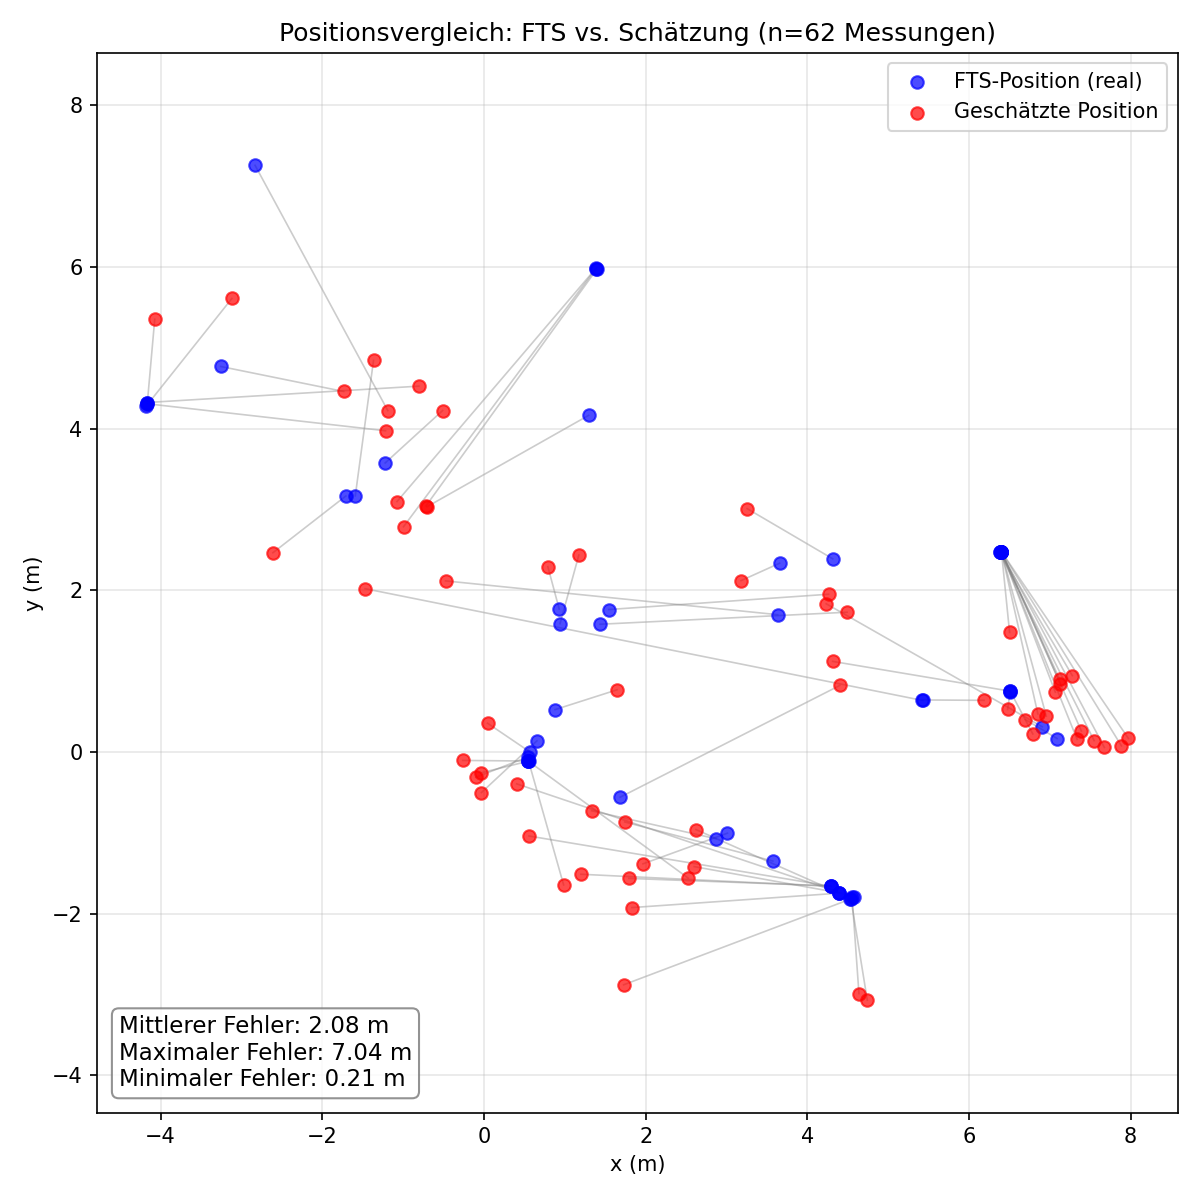
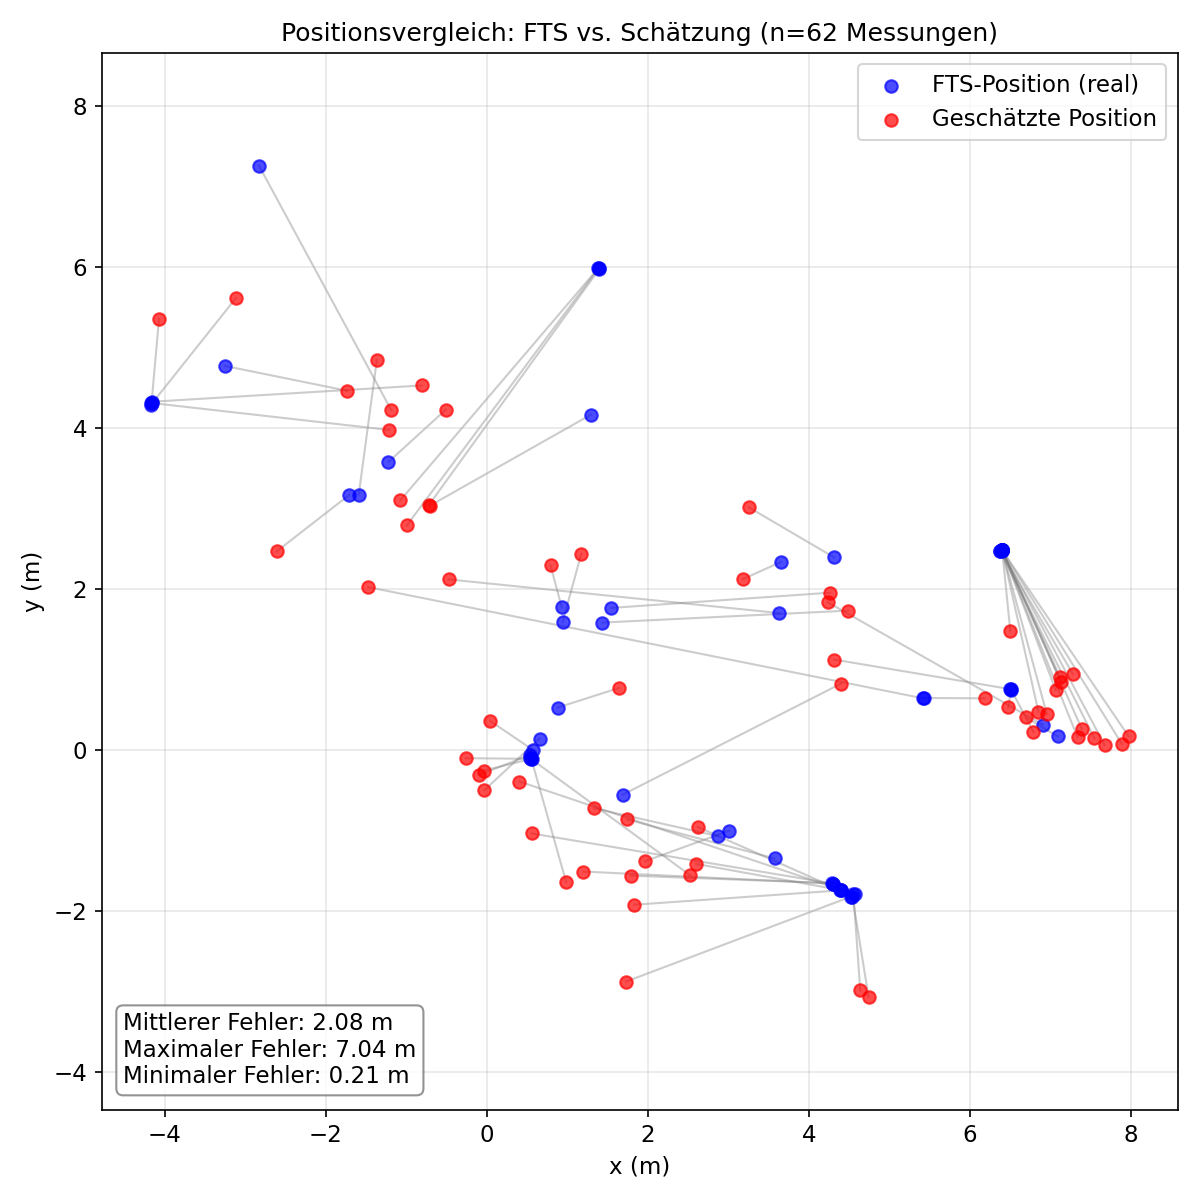
Beschriftungen in Graphiken angepasst.

diff --git a/Fingerprinting/Auswertung/error_map.py b/Fingerprinting/Auswertung/error_map.py
@@ -13,6 +13,13 @@ DATA_PATH = BASE_DIR / "data"
 RESULTS_FILE = DATA_PATH / "Positionsvergleich/Messungen" /file_name
 MAP_PATH = DATA_PATH / f"Positionsvergleich/Auswertungen/spatial_error_{suffix}.png"
 
+# --- Schriftgrößen (zentral anpassbar) ---
+FONTSIZE_ANNOTATION = 11    # Fehlerwerte an den Messpunkten
+FONTSIZE_STATS      = 11   # Statistikbox unten links
+FONTSIZE_LABELS     = 11   # Achsenbeschriftungen
+FONTSIZE_TITLE      = 12   # Titel
+FONTSIZE_LEGEND     = 11   # Legende
+
 # Schwellenwerte für die Fehler-Kategorien (in Metern)
 LOW_THRESHOLD = 1     # < 1m  -> gut (grün)
 HIGH_THRESHOLD = 2.5    # 1-2.5m -> mittel (gelb), > 2.5m -> schlecht (rot)
@@ -78,16 +85,95 @@ def plot_spatial_error_map(data, save_path=MAP_PATH, show=True, annotate_values=
     )
 
     if annotate_values:
-        for x, y, e in zip(agv_x, agv_y, errors):
+        CLUSTER_THRESH  = 0.35   # m  – Punkte enger als dies → Cluster
+        ARROW_LEN       = 26     # pt – Abstand Text zum Punkt
+        TEXT_W          = 52     # pt – geschätzte Textbreite (4 Zeichen)
+        TEXT_H          = 14     # pt – geschätzte Texthöhe
+        POINT_RADIUS    = 10     # pt – Radius der Scatter-Kreise (s=140 → r≈7pt, +Puffer)
+
+        # 16 Richtungen – dicht gesät für bessere Auswahl
+        angles_deg = [90, 45, 135, 0, 180, 315, 225, 270,
+                      60, 120, 30, 150, 330, 210, 300, 240]
+        directions = [(np.cos(np.radians(a)), np.sin(np.radians(a)))
+                      for a in angles_deg]
+
+        # Belegungsrechtecke: (cx, cy, w, h) in Pixel
+        occupied = []
+
+        def rect_collides(cx, cy, w, h):
+            """Prüft ob ein Rechteck (cx,cy,w,h) mit bestehenden Rechtecken kollidiert."""
+            for ox, oy, ow, oh in occupied:
+                if (abs(cx - ox) < (w + ow) / 2 + 4 and
+                        abs(cy - oy) < (h + oh) / 2 + 4):
+                    return True
+            return False
+
+        # Cluster bilden
+        used = [False] * len(agv_x)
+        clusters = []
+        for i in range(len(agv_x)):
+            if used[i]:
+                continue
+            group = [i]
+            used[i] = True
+            for j in range(len(agv_x)):
+                if not used[j]:
+                    d = np.sqrt((agv_x[i]-agv_x[j])**2 + (agv_y[i]-agv_y[j])**2)
+                    if d < CLUSTER_THRESH:
+                        group.append(j)
+                        used[j] = True
+            clusters.append(group)
+
+        # Alle Scatter-Punkte als belegte Kreise vorregistrieren
+        fig.canvas.draw()
+        trans = ax.transData
+        for xi, yi in zip(agv_x, agv_y):
+            px, py = trans.transform((xi, yi))
+            occupied.append((px, py, POINT_RADIUS * 2, POINT_RADIUS * 2))
+
+        for group in clusters:
+            # Pro Cluster nur den Punkt mit dem größten Fehler beschriften
+            rep = max(group, key=lambda i: errors[i])
+            x, y, e = agv_x[rep], agv_y[rep], errors[rep]
+            px, py = trans.transform((x, y))
+
+            best_off = None
+            for dx_n, dy_n in directions:
+                # Text-Mittelpunkt in Pixel
+                tx = px + dx_n * (ARROW_LEN + TEXT_W / 2)
+                ty = py + dy_n * (ARROW_LEN + TEXT_H / 2)
+                if not rect_collides(tx, ty, TEXT_W, TEXT_H):
+                    best_off = (dx_n * ARROW_LEN, dy_n * ARROW_LEN, tx, ty)
+                    break
+
+            if best_off is None:
+                # Alle Richtungen belegt → trotzdem platzieren (oben)
+                best_off = (0, ARROW_LEN,
+                            px, py + ARROW_LEN + TEXT_H / 2)
+
+            off_x, off_y, tx, ty = best_off
+            occupied.append((tx, ty, TEXT_W, TEXT_H))
+
+            has_arrow = len(group) > 1 or abs(off_x) > 10 or abs(off_y) > 10
             ax.annotate(
-                f"{e:.2f}", (x, y),
-                textcoords="offset points", xytext=(0, 9),
-                ha="center", fontsize=8, zorder=4
+                f"{e:.2f}",
+                (x, y),
+                textcoords="offset points",
+                xytext=(off_x, off_y),
+                ha="center",
+                va="bottom" if off_y >= 0 else "top",
+                fontsize=FONTSIZE_ANNOTATION,
+                zorder=5,
+                arrowprops=dict(
+                    arrowstyle="-",
+                    color="gray",
+                    lw=0.6,
+                ) if has_arrow else None,
             )
 
-    ax.set_xlabel("x (m)")
-    ax.set_ylabel("y (m)")
-    ax.set_title(f"Räumliche Fehlerkarte der Positionsschätzung (n={len(data)} Messungen)")
+    ax.set_xlabel("x (m)", fontsize=FONTSIZE_LABELS)
+    ax.set_ylabel("y (m)", fontsize=FONTSIZE_LABELS)
+    ax.set_title(f"Räumliche Fehlerkarte der Positionsschätzung (n={len(data)} Messungen)", fontsize=FONTSIZE_TITLE)
     ax.axis("equal")
     ax.grid(True, alpha=0.3)
 
@@ -96,7 +182,7 @@ def plot_spatial_error_map(data, save_path=MAP_PATH, show=True, annotate_values=
         mpatches.Patch(color=COLOR_MEDIUM, label=f"{LOW_THRESHOLD:.1f}\u2013{HIGH_THRESHOLD:.1f} m"),
         mpatches.Patch(color=COLOR_BAD, label=f"> {HIGH_THRESHOLD:.1f} m"),
     ]
-    ax.legend(handles=legend_handles, title="Fehler", loc="upper right")
+    ax.legend(handles=legend_handles, title="Fehler", loc="upper right", fontsize=FONTSIZE_LEGEND)
 
     stats_text = (
         f"Mittlerer Fehler: {mean_error:.2f} m\n"
@@ -105,7 +191,7 @@ def plot_spatial_error_map(data, save_path=MAP_PATH, show=True, annotate_values=
     ax.text(
         0.02, 0.02, stats_text,
         transform=ax.transAxes,
-        fontsize=11,
+        fontsize=FONTSIZE_STATS,
         verticalalignment="bottom",
         bbox=dict(boxstyle="round", facecolor="white", alpha=0.85, edgecolor="gray"),
     )

diff --git a/Fingerprinting/Auswertung/Position_comparison.py b/Fingerprinting/Auswertung/Position_comparison.py
@@ -13,6 +13,14 @@ RESULTS_FILE = DATA_PATH / "Positionsvergleich/Messungen" /file_name
 PLOT_PATH = DATA_PATH / f"Positionsvergleich/Auswertungen/position_comparisons_{suffix}.png"
 
 
+# --- Schriftgrößen (zentral anpassbar) ---
+FONTSIZE_STATS   = 11   # Statistikbox unten links
+FONTSIZE_LABELS  = 11   # Achsenbeschriftungen
+FONTSIZE_TITLE   = 12   # Titel
+FONTSIZE_LEGEND  = 11   # Legende
+FONTSIZE_TICKS   = 11   # Achsen-Ticks
+
+
 def load_comparisons(path=RESULTS_FILE):
     """Lädt die gespeicherten Positionsvergleiche aus der JSON-Datei."""
     path = Path(path)
@@ -58,15 +66,16 @@ def plot_positions(data, save_path=PLOT_PATH, show=True):
         ax.plot(
             [agv_x[i], est_x[i]],
             [agv_y[i], est_y[i]],
-            color="gray", alpha=0.4, linewidth=0.8, zorder=1
+            color="gray", alpha=0.4, linewidth=1.0, zorder=1
         )
 
-    ax.set_xlabel("x (m)")
-    ax.set_ylabel("y (m)")
-    ax.set_title(f"Positionsvergleich: FTS vs. Schätzung (n={len(data)} Messungen)")
-    ax.legend(loc="upper right")
+    ax.set_xlabel("x (m)", fontsize=FONTSIZE_LABELS)
+    ax.set_ylabel("y (m)", fontsize=FONTSIZE_LABELS)
+    ax.set_title(f"Positionsvergleich: FTS vs. Schätzung (n={len(data)} Messungen)", fontsize=FONTSIZE_TITLE)
+    ax.legend(loc="upper right", fontsize=FONTSIZE_LEGEND)
     ax.axis("equal")
     ax.grid(True, alpha=0.3)
+    ax.tick_params(axis="both", labelsize=FONTSIZE_TICKS)
 
     stats_text = (
         f"Mittlerer Fehler: {mean_error:.2f} m\n"
@@ -76,7 +85,7 @@ def plot_positions(data, save_path=PLOT_PATH, show=True):
     ax.text(
         0.02, 0.02, stats_text,
         transform=ax.transAxes,
-        fontsize=11,
+        fontsize=FONTSIZE_STATS,
         verticalalignment="bottom",
         bbox=dict(boxstyle="round", facecolor="white", alpha=0.85, edgecolor="gray"),
     )
